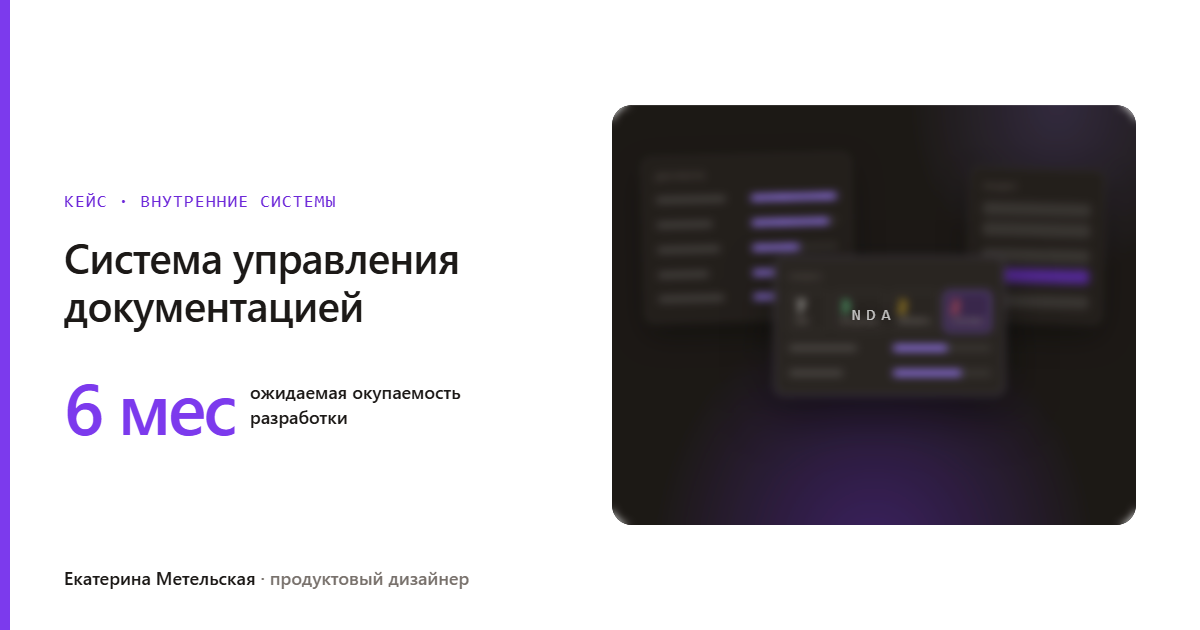
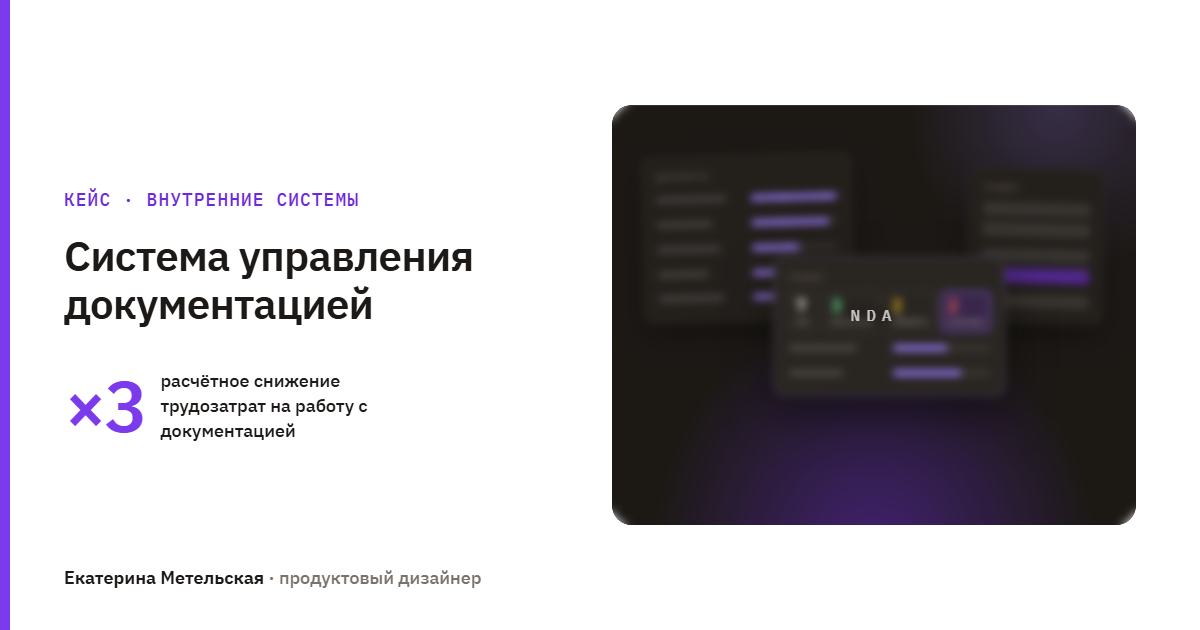
fix: clarify estimated effort

diff --git a/cases/documentation.html b/cases/documentation.html
@@ -175,7 +175,7 @@
                 <span class="dc-verdict is-no">Недостаточно для одобрения</span>
               </div>
             </div>
-            <p class="t-body-sm fig-note">Информация собрана в одном месте, но этого мало, чтобы окупить разработку</p>
+            <p class="t-body-sm fig-note">Информация собрана в одном месте, но этого мало, чтобы обосновать разработку</p>
           </div>
           <div class="fig-col">
             <span class="badge badge--brand">Расширенная концепция</span>
@@ -184,7 +184,7 @@
               <div class="dc-effect">
                 <span class="t-label-mono">Ожидаемый эффект</span>
                 <span class="dc-bar"><span class="dc-fill is-brand" style="--w:78%"></span><span class="dc-line"></span></span>
-                <span class="dc-verdict is-ok">Окупаемость — 6 месяцев, разработку одобрили</span>
+                <span class="dc-verdict is-ok">Предложенное решение получило одобрение, проект передали в разработку</span>
               </div>
             </div>
             <p class="t-body-sm fig-note">Ценность аналитики проверили на практическом примере и добавили в обоснование</p>
@@ -282,11 +282,12 @@
     <section id="results" class="finale">
       <h2 class="t-heading-lg">Результаты</h2>
       <div class="finale-stat">
-        <span class="finale-num finale-num--sm" aria-hidden="true">6 мес</span>
-        <p>ожидаемый срок окупаемости разработки</p>
+        <span class="finale-num" aria-hidden="true">×3</span>
+        <p>расчётное снижение трудозатрат на работу с документацией</p>
       </div>
+      <p>Благодаря переработке структуры информации, упрощению навигации и представления сложных данных расчётные трудозатраты на работу с документацией сократились в 3 раза.</p>
       <p>Первоначальная концепция продукта не получила одобрения из-за недостаточного экономического эффекта. Я нашла дополнительные возможности для развития системы, предложила аналитические функции и помогла обосновать их ценность для бизнеса.</p>
-      <p>По результатам экономической оценки ожидаемый срок окупаемости разработки составил 6 месяцев. Это помогло получить одобрение на реализацию проекта.</p>
+      <p>Предложенное решение получило одобрение, проект передали в разработку.</p>
       <p>Предложенные интерфейсные решения получили положительную оценку пользователей. Удалось выстроить единую логику взаимодействия для разных разделов системы и встроить аналитику в повседневные сценарии работы.</p>
     </section>
 

diff --git a/tools/og.html b/tools/og.html
@@ -43,7 +43,7 @@
     home: { kicker: 'Портфолио', title: 'Екатерина Метельская', lead: 'Продуктовый дизайнер. Разбираюсь в сложных цифровых продуктах и делаю их понятнее для пользователей.', art: 'tv', foot: false },
     control: { kicker: 'Кейс · Внутренние системы', title: 'Система производственного контроля и мониторинга', metric: ['×8', 'быстрее выполняется основная задача пользователя'], art: 'control' },
     planning: { kicker: 'Кейс · Внутренние системы', title: 'Корпоративная система планирования', metric: ['×3', 'примерно во столько раз быстрее рабочий процесс'], art: 'planning' },
-    docs: { kicker: 'Кейс · Внутренние системы', title: 'Система управления документацией', metric: ['6 мес', 'ожидаемая окупаемость разработки'], art: 'docs' },
+    docs: { kicker: 'Кейс · Внутренние системы', title: 'Система управления документацией', metric: ['×3', 'расчётное снижение трудозатрат на работу с документацией'], art: 'docs' },
     tv: { kicker: 'Кейс · Публичные продукты', title: 'SWEET.TV', lead: 'Один пользовательский сценарий на устройствах, которыми управляют пальцем и пультом.', art: 'tv' },
     invino: { kicker: 'Кейс · Собственные инструменты', title: 'In Vino — дизайн-система', lead: 'Многоуровневые токены, слоты и свойства компонентов. На ней собрано это портфолио.', art: 'invino' },
   };

diff --git a/templates/cases/documentation.blocks.html b/templates/cases/documentation.blocks.html
@@ -26,7 +26,7 @@
                 <span class="dc-verdict is-no">Недостаточно для одобрения</span>
               </div>
             </div>
-            <p class="t-body-sm fig-note">Информация собрана в одном месте, но этого мало, чтобы окупить разработку</p>
+            <p class="t-body-sm fig-note">Информация собрана в одном месте, но этого мало, чтобы обосновать разработку</p>
           </div>
           <div class="fig-col">
             <span class="badge badge--brand">Расширенная концепция</span>
@@ -35,7 +35,7 @@
               <div class="dc-effect">
                 <span class="t-label-mono">Ожидаемый эффект</span>
                 <span class="dc-bar"><span class="dc-fill is-brand" style="--w:78%"></span><span class="dc-line"></span></span>
-                <span class="dc-verdict is-ok">Окупаемость — 6 месяцев, разработку одобрили</span>
+                <span class="dc-verdict is-ok">Предложенное решение получило одобрение, проект передали в разработку</span>
               </div>
             </div>
             <p class="t-body-sm fig-note">Ценность аналитики проверили на практическом примере и добавили в обоснование</p>
@@ -104,6 +104,6 @@
 
 <!-- block: results-finale-stat -->
 <div class="finale-stat">
-        <span class="finale-num finale-num--sm" aria-hidden="true">6 мес</span>
-        <p>ожидаемый срок окупаемости разработки</p>
+        <span class="finale-num" aria-hidden="true">×3</span>
+        <p>расчётное снижение трудозатрат на работу с документацией</p>
       </div>

diff --git a/projects.html b/projects.html
@@ -156,7 +156,7 @@
             <div class="card-meta"><span class="tag">0 → 1</span><span class="tag">Бизнес-ценность</span><span class="tag">B2E</span></div>
             <h4 class="t-heading-sm">Система управления документацией</h4>
             <p class="t-body">Как из запроса на единое место для информации вырастить продуктовую концепцию, проверить её ценность и спроектировать понятный интерфейс.</p>
-            <p class="card-result t-label-mono">Трудозатраты на документы — в 3 раза меньше</p>
+            <p class="card-result t-label-mono">Расчётные трудозатраты — в 3 раза меньше</p>
             <a class="btn btn--link card-link" href="cases/documentation.html" draggable="false"><span>Открыть кейс</span><svg><use href="#i-arrow-right"/></svg></a>
           </li>
           <li class="case-card is-linked" data-type="public">

diff --git a/index.html b/index.html
@@ -348,7 +348,7 @@ X 120   Y 64</span>
             <div class="card-meta"><span class="tag">0 → 1</span><span class="tag">Бизнес-ценность</span><span class="tag">B2E</span></div>
             <h4 class="t-heading-sm">Система управления документацией</h4>
             <p class="t-body">Как из запроса на единое место для информации вырастить продуктовую концепцию, проверить её ценность и спроектировать понятный интерфейс.</p>
-            <p class="card-result t-label-mono">Трудозатраты на документы — в 3 раза меньше</p>
+            <p class="card-result t-label-mono">Расчётные трудозатраты — в 3 раза меньше</p>
             <a class="btn btn--link card-link" href="cases/documentation.html" draggable="false"><span>Открыть кейс</span><svg><use href="#i-arrow-right"/></svg></a>
           </li>
         </ul>

diff --git a/content/documentation.md b/content/documentation.md
@@ -18,7 +18,7 @@ card_tags:
   - 0 → 1
   - Бизнес-ценность
   - B2E
-card_result: Трудозатраты на документы — в 3 раза меньше
+card_result: Расчётные трудозатраты — в 3 раза меньше
 ---
 
 ## Контекст {#context}
@@ -89,9 +89,11 @@ card_result: Трудозатраты на документы — в 3 раза 
 
 [[results-finale-stat]]
 
+Благодаря переработке структуры информации, упрощению навигации и представления сложных данных расчётные трудозатраты на работу с документацией сократились в 3 раза.
+
 Первоначальная концепция продукта не получила одобрения из-за недостаточного экономического эффекта. Я нашла дополнительные возможности для развития системы, предложила аналитические функции и помогла обосновать их ценность для бизнеса.
 
-По результатам экономической оценки ожидаемый срок окупаемости разработки составил 6 месяцев. Это помогло получить одобрение на реализацию проекта.
+Предложенное решение получило одобрение, проект передали в разработку.
 
 Предложенные интерфейсные решения получили положительную оценку пользователей. Удалось выстроить единую логику взаимодействия для разных разделов системы и встроить аналитику в повседневные сценарии работы.
 
